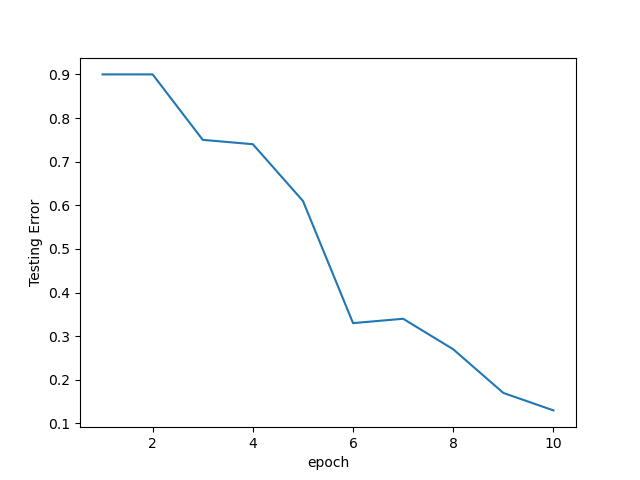
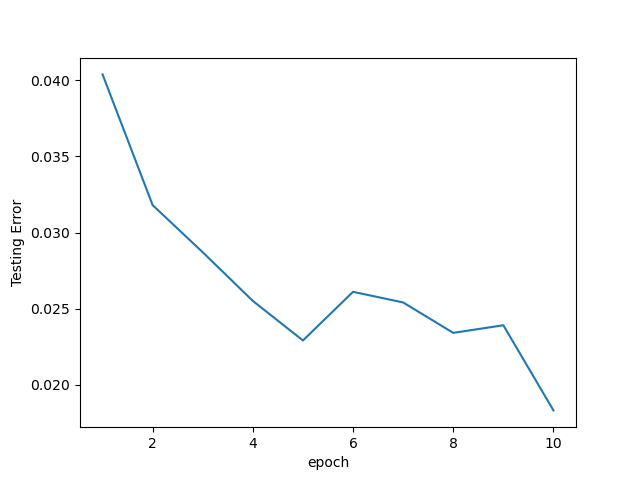
Using SIMD CPU acceleration

diff --git a/mnist_example.py b/mnist_example.py
@@ -37,7 +37,7 @@ def select_images():
     images_list = []
     labels_list = []
     for n in range(10):
-        idx = np.where(train_labels_data == n)[0][:100]
+        idx = np.where(train_labels_data == n)[0][:]
         images_list.append(train_images_data[idx])
         labels_list.extend(train_labels_data[idx])
     train_images = np.vstack(images_list)
@@ -47,7 +47,7 @@ def select_images():
     images_list = []
     labels_list = []
     for n in range(10):
-        idx = np.where(test_labels_data == n)[0][:10]
+        idx = np.where(test_labels_data == n)[0][:]
         images_list.append(test_images_data[idx])
         labels_list.extend(test_labels_data[idx])
     test_images = np.vstack(images_list)
@@ -62,6 +62,9 @@ X_train = (train_images.reshape(train_images.shape[0], -1) / 255.0).astype(np.fl
 Y_train = train_labels.astype(np.float32)
 X_test = (test_images.reshape(test_images.shape[0], -1) / 255.0).astype(np.float64)
 Y_test = test_labels.astype(np.float64)
+
+if (not os.path.exists('results')):
+    os.makedirs('results')
 
 print('X_train shape:', X_train.shape)
 print('Y_train shape:', Y_train.shape)
@@ -79,13 +82,13 @@ plt.figure(1)
 plt.plot(x, train_err)
 plt.xlabel('epoch')
 plt.ylabel('Training Error')
-plt.savefig('images/train_1.png')
+plt.savefig('results/train_1.png')
 
 plt.figure(2)
 plt.plot(x, test_err)
 plt.xlabel('epoch')
 plt.ylabel('Testing Error')
-plt.savefig('images/test_1.png')
+plt.savefig('results/test_1.png')
 
 
 
@@ -99,10 +102,10 @@ plt.figure(3)
 plt.plot(x, train_err)
 plt.xlabel('epoch')
 plt.ylabel('Training Error')
-plt.savefig('images/train_2.png')
+plt.savefig('results/train_2.png')
 
 plt.figure(4)
 plt.plot(x, test_err)
 plt.xlabel('epoch')
 plt.ylabel('Testing Error')
-plt.savefig('images/test_2.png')
+plt.savefig('results/test_2.png')

diff --git a/README.md b/README.md
@@ -48,6 +48,8 @@ You can see the samples in the `test` folder.
 
 If you want to bind with Python, use [pybind11](https://pybind11.readthedocs.io/en/latest/), check `python/pysimplednn.cpp` for more information. If you build manually, you can only import the package at the same location of the .so executable file, if you install as a Python package, you can import it anywhere.
 
+When building the graph, it is recommended to build the network structure before eveluating the graph, and not to build the graph again after eveluation, and it will cause unexpected behaviour. For example, compile the model first before fitting, and not to compile the same model again after fitting or evaluating.
+
 
 ## Example - MNIST
 We use MNIST for demo.
@@ -69,17 +71,19 @@ Loss Function: Cross Entropy
 Using Gradient Descent optimizer
 learning rate: 0.01
 
+Training data size: 60000
+Testing data size: 10000
 Batch size: 32
 Epochs: 10
 ```
 
 Result:
 
-Training (Accuracy: 0.984)
+Training (Accuracy: 0.9802, used time: about 55s)
 
 ![](results/train_1.png)
 
-Testing (Accuracy: 0.9)
+Testing (Accuracy: 0.9963)
 
 ![](results/test_1.png)
 
@@ -97,23 +101,25 @@ Loss Function: Cross Entropy
 Using Gradient Descent optimizer
 learning rate: 0.01
 
+Training data size: 60000
+Testing data size: 10000
 Batch size: 32
 Epochs: 10
 ```
 
 Result:
 
-Training (Accuracy: 0.902)
+Training (Accuracy: 0.9904, used time: about 65s)
 
 ![](results/train_2.png)
 
-Testing (Accuracy: 0.87)
+Testing (Accuracy: 0.9817)
 
 ![](results/test_2.png)
 
 
 ## More Information
-The project is heavily based on [xtensor](https://github.com/xtensor-stack/xtensor), which is a NumPy-like library written in C++, check [docs](https://xtensor.readthedocs.io) for documentation, check [From numpy to xtensor](https://xtensor.readthedocs.io/en/latest/numpy.html) to see the corresponding NumPy functions, it's not support GPU now. We put xtnsor source code in the `lib` directory.
+The project is heavily based on [xtensor](https://github.com/xtensor-stack/xtensor), which is a NumPy-like library written in C++, check [docs](https://xtensor.readthedocs.io) for documentation, check [From numpy to xtensor](https://xtensor.readthedocs.io/en/latest/numpy.html) to see the corresponding NumPy functions, it's not support GPU now, but it support SIMD CPU acceleration. We put xtensor library source code in the `lib` directory.
 
 The project is inspired by [Deep Learning From Scratch: Theory and Implementation](https://www.codingame.com/playgrounds/9487/deep-learning-from-scratch---theory-and-implementation/computational-graphs), that's a really good way to learn about computational graph.
 
